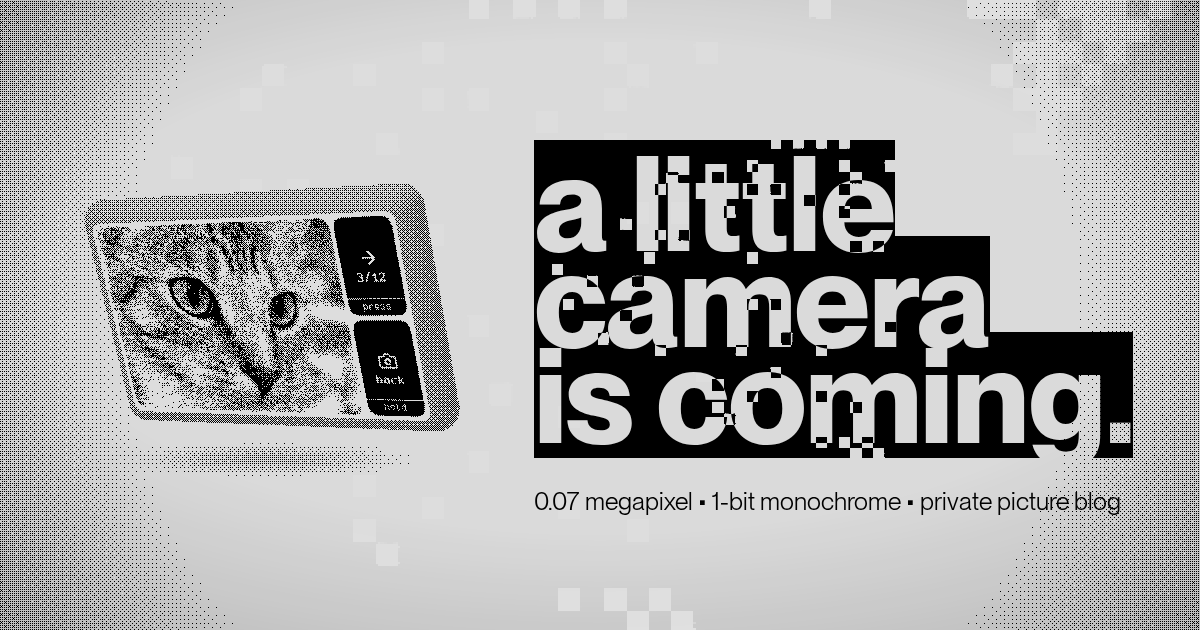
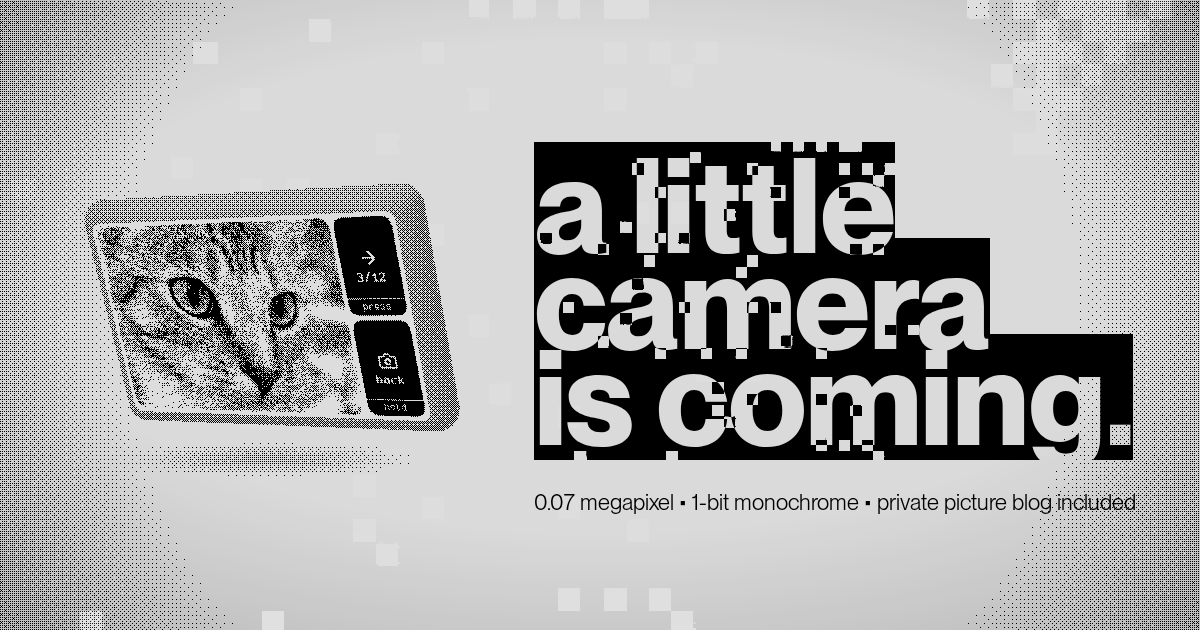
chore(site): spelling out that the blog comes with the camera
The spec line said "private picture blog", which reads like a thing you
still have to go and set up. "included" says it is part of what you buy.
Same string in the page, the three descriptions and the card.

Claude-Session: https://claude.ai/code/session_018Do1eGLFYYJFzp83wMP41s

diff --git a/site/index.html b/site/index.html
@@ -4,7 +4,7 @@
 <meta charset="utf-8">
 <meta name="viewport" content="width=device-width, initial-scale=1, viewport-fit=cover">
 <title>a little camera</title>
-<meta name="description" content="0.07 megapixel • 1-bit monochrome • private picture blog">
+<meta name="description" content="0.07 megapixel • 1-bit monochrome • private picture blog included">
 <link rel="canonical" href="https://lttl.cam/">
 <meta name="color-scheme" content="light">
 <meta name="theme-color" content="#dddddd">
@@ -17,7 +17,7 @@
      dither, same glitched headline. -->
 <meta property="og:site_name" content="lttl.cam">
 <meta property="og:title" content="a little camera is coming">
-<meta property="og:description" content="0.07 megapixel • 1-bit monochrome • private picture blog">
+<meta property="og:description" content="0.07 megapixel • 1-bit monochrome • private picture blog included">
 <meta property="og:type" content="website">
 <meta property="og:url" content="https://lttl.cam/">
 <meta property="og:locale" content="en">
@@ -28,7 +28,7 @@
 <meta property="og:image:alt" content="a small dithered camera beside the words a little camera is coming.">
 <meta name="twitter:card" content="summary_large_image">
 <meta name="twitter:title" content="a little camera is coming">
-<meta name="twitter:description" content="0.07 megapixel • 1-bit monochrome • private picture blog">
+<meta name="twitter:description" content="0.07 megapixel • 1-bit monochrome • private picture blog included">
 <meta name="twitter:image" content="https://lttl.cam/media/og.png">
 <meta name="twitter:image:alt" content="a small dithered camera beside the words a little camera is coming.">
 <!-- The headline is fitted by measuring the font that actually resolved, so a
@@ -317,7 +317,7 @@ h1 span{display:block; width:fit-content; white-space:nowrap}
       </video>
       <h1><span>a little</span><span>camera</span><span>is coming.</span></h1>
     </div>
-    <p class="by"><span>0.07 megapixel • 1-bit monochrome • private picture blog</span></p>
+    <p class="by"><span>0.07 megapixel • 1-bit monochrome • private picture blog included</span></p>
   </div>
 
   <div class="stage">

diff --git a/site/README.md b/site/README.md
@@ -294,8 +294,8 @@ than the screen:
 | gap between them | `--sheet` x 0.12 |
 
 The spec line under the headline — "0.07 megapixel • 1-bit monochrome • private
-picture blog" — sits in the flow, aligned to the same left edge. It is set in
-Book rather than Bold, at a little over a quarter of the headline's size, and
+picture blog included" — sits in the flow, aligned to the same left edge. It is
+set in Book rather than Bold, at a little over a quarter of the headline's size, and
 set solid on hard black where the headline is film and inversion.
 
 That band is on an inline span inside the paragraph, not on the paragraph
